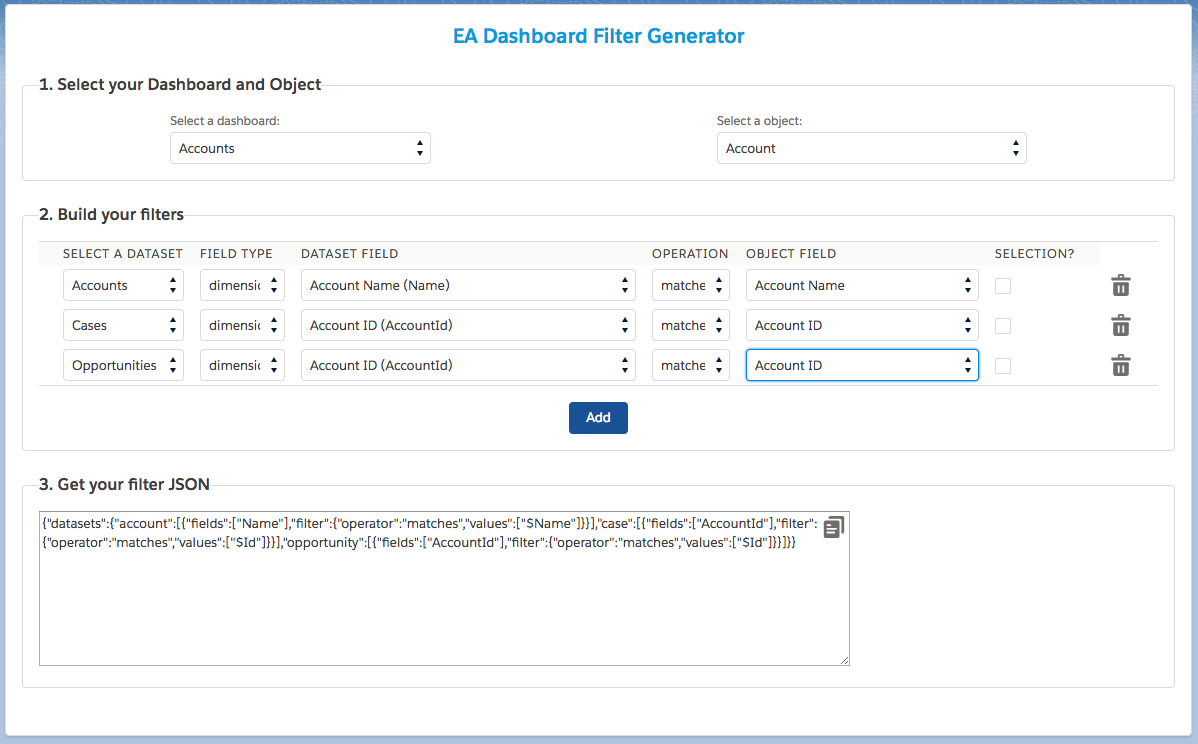
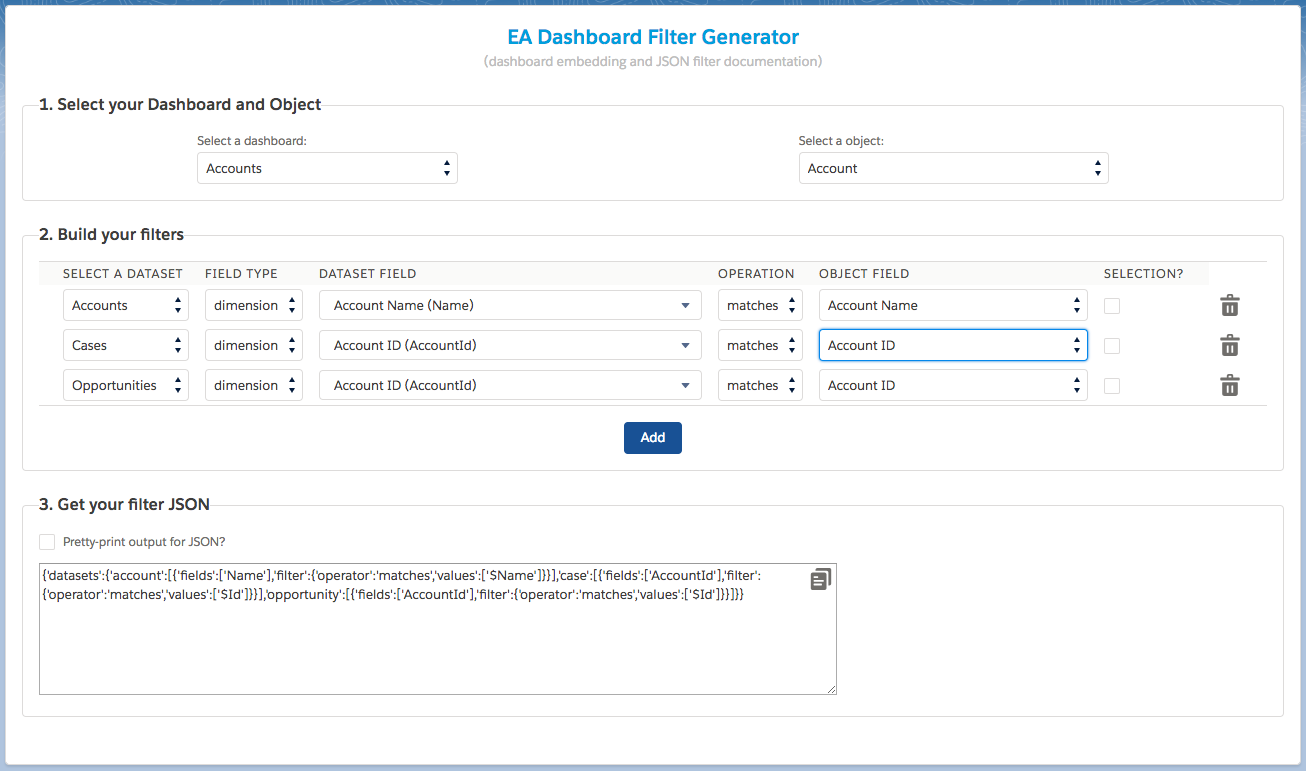
feedback from Bryan

diff --git a/src/aura/PSEADashboardFilterGenerator/PSEADashboardFilterGeneratorController.js b/src/aura/PSEADashboardFilterGenerator/PSEADashboardFilterGeneratorController.js
@@ -176,13 +176,14 @@
 
 			}
 
+            var regex = new RegExp('"', 'g');
             if (component.get("v.prettyPrint"))
             {
-                filterJSON.value = JSON.stringify(json, null, 2);
+                filterJSON.value = JSON.stringify(json, null, 2).replace(regex, '\'');
             }
             else
             {
-			  filterJSON.value = JSON.stringify(json);
+			  filterJSON.value = JSON.stringify(json).replace(regex, '\'');
             }
 		}
 		else

diff --git a/src/aura/PSEADashboardFilterGenerator/PSEADashboardFilterGenerator.css b/src/aura/PSEADashboardFilterGenerator/PSEADashboardFilterGenerator.css
@@ -21,3 +21,11 @@
     display : none;
     visibility : hidden;
 }
+
+.THIS a:visited {
+    color: #BEBEBE;
+}
+
+.THIS a:link {
+    color: #BEBEBE;
+}
